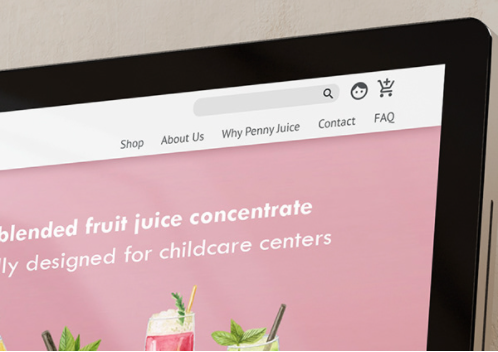
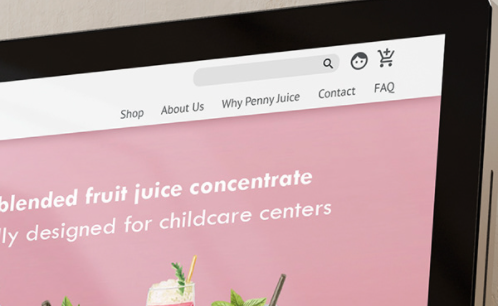
Last edits

diff --git a/css/style.css b/css/style.css
@@ -40,11 +40,13 @@ picture {
 .text-center {
     color: wheat;
     margin-top: 3rem;
+}
+.text {
     text-align: center;
 }
-.text-center>h1 {
+.text-center h1 {
     font-size: 36pt;
-    font-weight: 300;
+    font-weight: 600;
 }
 /* Adding movement animation to the text */
 .text {
@@ -62,6 +64,7 @@ picture {
     margin-top: 2rem;
     width: 70%;
     height: auto;
+    margin-left: 10%;
 }
 .about>h4 {
     color: #683B2B;
@@ -75,32 +78,32 @@ picture {
     padding: 2rem;
     font-size: 14pt;
 }
-.row img {
+/* .row img {
     animation: move-from-left 2s;
     animation-fill-mode: forwards;
     }    
 @keyframes move-from-left {        
     from{transform: translatex(-500px);}
     to {transform: translatex(22%);}
-    }
+    } */
 .about {
     animation: move-from-left 2s;
     animation-fill-mode: forwards;
-    margin-left: -2rem;
     }   
-/* @keyframes move-from-left {        
+@keyframes move-from-left {        
     from{transform: translatex(-500px);}
-    to {transform: translatex(15%);}
-    } */
+    to {transform: translatex(1%);}
+    }
 .style {
     margin: auto;
     width: 80%;
     display: block;
     border-radius: 0.6rem;
-    background-color: #F7F4EB;
-    border: 3px solid #D8CEAE;
+    background-color: #F3F0E6;
+    border: none;
     margin-top: 2rem;
-    padding: 0.5rem;  
+    padding: 1rem;
+    font-size: 12pt;
 }
 .text-contact>h5 {
     color: #683B2B;
@@ -238,7 +241,7 @@ button:hover {
     position: relative;
     display: inline-block;
 }
-.ux-pic>img {
+.ux-pic img {
     display: block;
     margin: auto;
     width: 61%;
@@ -315,8 +318,8 @@ button:hover {
 .golizhe-text, .poster-text,
 .blackr-text {
     text-align: center;
-    margin-left: 5%;
-    margin-right: 5%;
+    margin-left: 10%;
+    margin-right: 10%;
 }
 .golizhe-text h6, .poster-text h6,
 .blackr-text h6 {
@@ -347,8 +350,8 @@ button:hover {
 .pnwx-text, .penny-text,
 .tim-text {
     text-align: center;
-    margin-left: 5%;
-    margin-right: 5%;
+    margin-left: 10%;
+    margin-right: 10%;
 }
 .pnwx-text h6, .penny-text h6,
 .tim-text h6 {
@@ -375,7 +378,7 @@ button:hover {
 footer {
     background-color: #D49E8D;
     display: flex;
-    margin-top: 2rem;
+    margin-top: 10%;
 }
 .logo {
     display: block;
@@ -420,16 +423,15 @@ footer {
     width: 70%;
     margin-top: 2rem;
 }
-.about {
+/* .about {
     animation: move-from-left 3s;
     animation-fill-mode: forwards;
-    animation-delay: 2s;
     margin-left: 2rem;   
-}
-@keyframes move-from-left {        
+} */
+/* @keyframes move-from-left {        
     from{transform: translatex(-500px);}
     to {transform: translatex(15%);}
-    }
+    } */
 .form button {
     margin-left: 3.5rem;
     }
@@ -448,7 +450,10 @@ footer {
     HOME PAGE 
     -----------*/
 .text-center {
-    margin-top: 5rem;
+    margin-top: -5rem;
+}
+.text {
+    text-align: left;
 }
 .text {
     animation: move-from-right 2s;
@@ -458,10 +463,10 @@ footer {
     from{transform: translatex(-500px);}
     to {transform: translatex(250%);}
 }
-.text-center>h5 {
+.text-center h5 {
     font-size: 150%;   
 }
-.text-center>h1 {
+.text-center h1 {
     font-size: 40pt;
 }
 /* ------------------
@@ -477,7 +482,7 @@ footer {
 }
 .about {
     width: 120%;
-    margin-left: -13rem;
+    margin-left: -7rem;
     margin-top: 2rem;
 }
 .form {
@@ -501,7 +506,7 @@ footer {
     margin-top: 5%;
     padding-bottom: 10rem;
 }    
-.graphic-pic>img {
+.graphic-pic img {
     position: relative;
     margin-top: 15%;
     width: 70%;
@@ -525,10 +530,10 @@ footer {
     position: absolute;
     width: 48%;
     margin-left: 7%;
-    margin-top: 7%;
+    margin-top: 10%;
     height: 550px;
 }
-.web-pic>img {
+.web-pic img {
     position: relative;
     margin-top: 15%;
     width: 70%;
@@ -546,10 +551,10 @@ footer {
 .ux-back {
     width: 55%;
     height: 500px;
-    margin-top: 15%;
+    margin-top: 10%;
     margin-left: 15%;
 }
-.ux-pic>img {
+.ux-pic img {
     width: 70%;
     margin-top: -50%;
     margin-left: 40%;
@@ -592,7 +597,7 @@ footer {
    GRAPHIC PAGE-DESKTOP
    ---------------------- */
 
-.graphic-page {
+.header-page {
     width: 50%;
 }
 .blackr-text, .poster-text,
@@ -641,6 +646,55 @@ footer {
     margin-top: -10%;
     margin-left: 9%;
     margin-bottom: 10%;
+}
+
+/* UX/UI PAGE-DESKTOP */
+.pnwx-text, .penny-text,
+.tim-text {
+    margin-right: 15%;
+}
+.pnwx {
+    display: grid;
+    grid-template-columns: 1fr 1fr;
+}
+.pnwx-text {
+    margin-top: 25%;
+}
+.penny-juice {
+    margin-top: 3rem;
+}
+.pnwx-pic img {
+    width: 85%;
+    margin-left: 20%;
+}
+.penny-pic {
+    display: flex;
+    flex-direction: row;
+}
+.penny-pic1 img{
+    width: 100%;
+    margin-left: 30%;
+}
+.penny-pic2 img {
+    width: 75%;
+    margin-right: 8%;
+    
+}
+.penny-text {
+    width: 30%;
+    margin-top: -12%;
+}
+.tim-hortons {
+    display: grid;
+    grid-template-columns: 1fr 1fr;
+    margin-top: 3rem;
+}
+.tim-pic img {
+    width: 90%;
+    margin-left: 18%;
+}
+.tim-text {
+    margin-top: 20%;
 }
 
     

diff --git a/ux-ui.html b/ux-ui.html
@@ -33,21 +33,16 @@
     <div class="header-page"><h5>UX/UI Design</h5></div>
     <section class="pnwx">
         <div class="pnwx-pic">
-            <div class="pn-pic">
-                <img src="images/ux-web.png" alt="pnwx-pic1">
-            </div>
-            <div class="wx-pic">
-                <img src="images/Equipment.png" alt="pnwx-pic2">
-            </div>
+            <a href="https://xd.adobe.com/view/2e9ede36-fb1b-4c80-beaa-e903995cba0f-7bcd/" target="_blank"><img src="images/ux-web.png" alt="pnwx-pic1"></a>
         </div>
         <div class="pnwx-text">
-            <a href="https://xd.adobe.com/view/2e9ede36-fb1b-4c80-beaa-e903995cba0f-7bcd/"><h6>PNWX Website Redesign</h6></a>
+            <a href="https://xd.adobe.com/view/2e9ede36-fb1b-4c80-beaa-e903995cba0f-7bcd/" target="_blank"><h6>PNWX Website Redesign</h6></a>
             <p>Culpa qui officia deserunt mollit anim id est laborum. Sed ut perspiciatis unde omnis iste natus error sit voluptartem accusantium doloremque laudantium, totam rem aperiam, eaque ipsa quae ab illo inventore veritatis </p>
         </div>
     </section>
     <section class="penny-juice">
         <div class="penny-pic">
-            <div class="peny-pic1">
+            <div class="penny-pic1">
                 <img src="images/penny1.png" alt="penny-pic1">
             </div>
             <div class="penny-pic2">
@@ -61,10 +56,10 @@
     </section>
     <section class="tim-hortons">
         <div class="tim-pic">
-                <img src="images/ux-mobile.png" alt="tim-pic">
+            <a href="https://xd.adobe.com/view/446f4055-d1be-4f53-b240-d9d5b8e2430b-113c/" target="_blank"><img src="images/ux-mobile.png" alt="tim-pic"></a>
         </div>
         <div class="tim-text">
-            <a href="https://xd.adobe.com/view/446f4055-d1be-4f53-b240-d9d5b8e2430b-113c/"><h6>Tim Hortons Application Redesign</h6></a>
+            <a href="https://xd.adobe.com/view/446f4055-d1be-4f53-b240-d9d5b8e2430b-113c/" target="_blank"><h6>Tim Hortons Application Redesign</h6></a>
             <p>Culpa qui officia deserunt mollit anim id est laborum. Sed ut perspiciatis unde omnis iste natus error sit voluptartem accusantium doloremque laudantium, totam rem aperiam, eaque ipsa quae ab illo inventore veritatis.</p>
         </div>
 

diff --git a/explore.html b/explore.html
@@ -35,8 +35,8 @@
         <div class="graphic-pic">
             <img src="images/graphic.png" alt="graphic">
         </div>
-        <div class="graphic-text">
-            <a href="graphic.html"><h5>Graghic Design</h5></a>
+        <a href="graphic.html" target="_blank"><div class="graphic-text"></a>
+            <a href="graphic.html" target="_blank"><h5>Graghic Design</h5></a>
         </div>   
     </section>
     <section class="web-design">
@@ -46,17 +46,17 @@
         </div>
         <div class="web-text">
             <h5>Web Design</h5>
-            <a href="https://nikooyeke.github.io/mtm6201/mock-up/">Karen Bakery</a>
-            <a href="nikooyeke.github.io/mtm6201/landing-page/index.html">Landing Page</a>
+            <a href="https://nikooyeke.github.io/mtm6201/mock-up/" target="_blank">Karen Bakery</a>
+            <a href="nikooyeke.github.io/mtm6201/landing-page/index.html" target="_blank">Landing Page</a>
         </div>
     </section>
     <section class="ux-design">
         <div class="ux-back"></div>
         <div class="ux-pic">
-            <img src="images/ux.png" alt="UX">
+            <a href="ux-ui.html" target="_blank"><img src="images/ux.png" alt="UX"></a>
         </div>
         <div class="ux-text">
-            <a href="ux-ui.html"><h5>UX/UI Design</h5></a>
+            <a href="ux-ui.html" target="_blank"><h5>UX/UI Design</h5></a>
         </div>
     </section>
     <section class="cms">
@@ -66,8 +66,8 @@
         </div>
         <div class="cms-text">
             <h5>Content Management System</h5>
-            <a href="http://nikoo-y.com/wordpress/">Sweelux</a>
-            <a href="http://nikoo-y.com/drupal/">Election Campaign</a>
+            <a href="http://nikoo-y.com/wordpress/" target="_blank">Sweelux</a>
+            <a href="http://nikoo-y.com/drupal/" target="_blank">Election Campaign</a>
         </div>
     </section>
 

diff --git a/README.md b/README.md
@@ -1,0 +1,4 @@
+
+
+
+I designed this portfolio in my Ux course. I tried to use the modern tecnigue and avoiding to usual metodes. I wanted to design a simple yet beautiful portfolio. In this work, I have tried to use all the material I have learned so far, such as grid, flexbox, animation, and bootstrap. Of course, this is not perfect and there is room for improvement. I will show this portfolio to several people to get the best results using different opinions.
